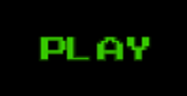
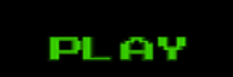
Fixed Buttons

Changed region(s): [[0.508, 0.3636, 0.8021, 0.8052], [0.1872, 0.3636, 0.4813, 0.8052]]

diff --git a/src/McKMenu.java b/src/McKMenu.java
@@ -21,10 +21,15 @@ public class McKMenu extends JFrame{
         layeredPane.add(back,1);
 
         ImageIcon startPic = new ImageIcon("Images/Menu/start.png");
+        ImageIcon instPic = new ImageIcon("Images/Menu/inst.png");
         JButton startBtn = new JButton(startPic);
+        JButton instBtn= new JButton(instPic);
         startBtn.addActionListener(new ClickStart());
-        startBtn.setBounds(245,370,startPic.getIconWidth(),startPic.getIconHeight());
+        instBtn.addActionListener(new ClickStart());
+        startBtn.setBounds(220,370,instPic.getIconWidth(),startPic.getIconHeight());
+        instBtn.setBounds(220,445,instPic.getIconWidth(),instPic.getIconHeight());
         layeredPane.add(startBtn,2);
+        layeredPane.add(instBtn,3);
 
         setContentPane(layeredPane);
         setDefaultCloseOperation(JFrame.EXIT_ON_CLOSE);
